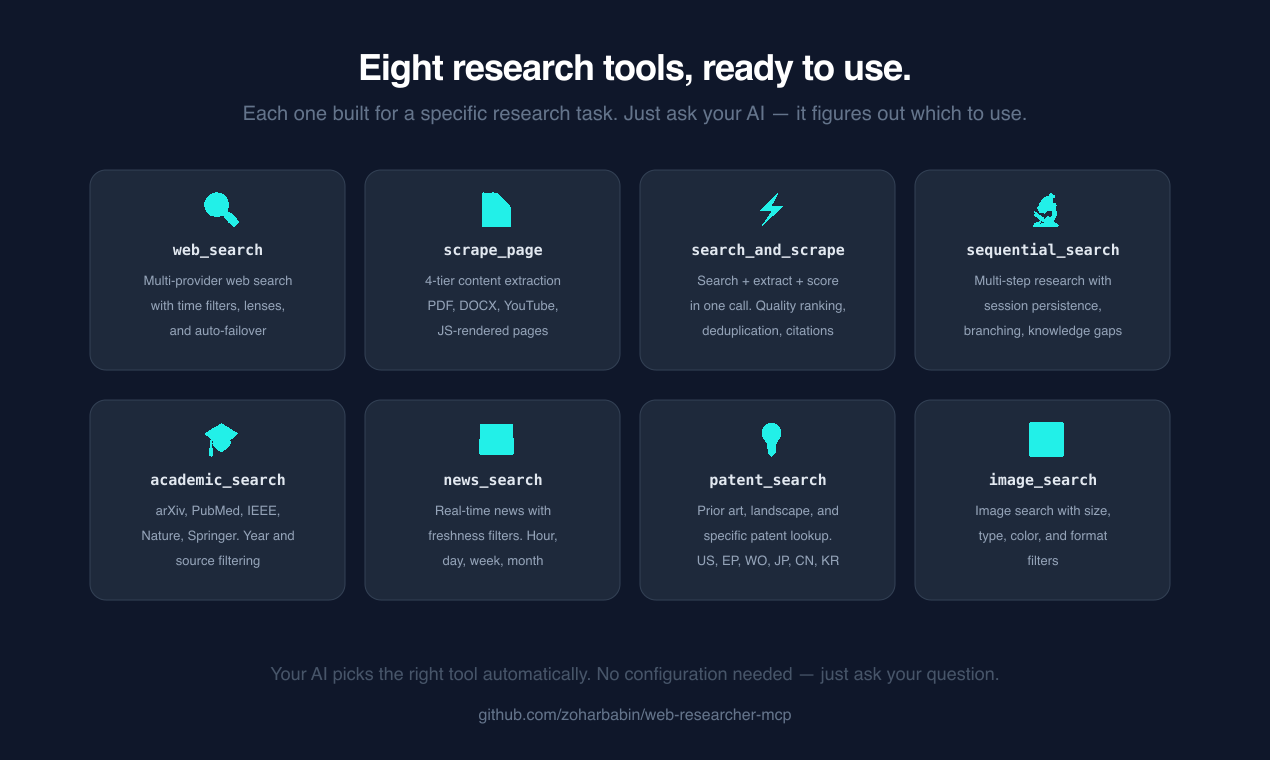
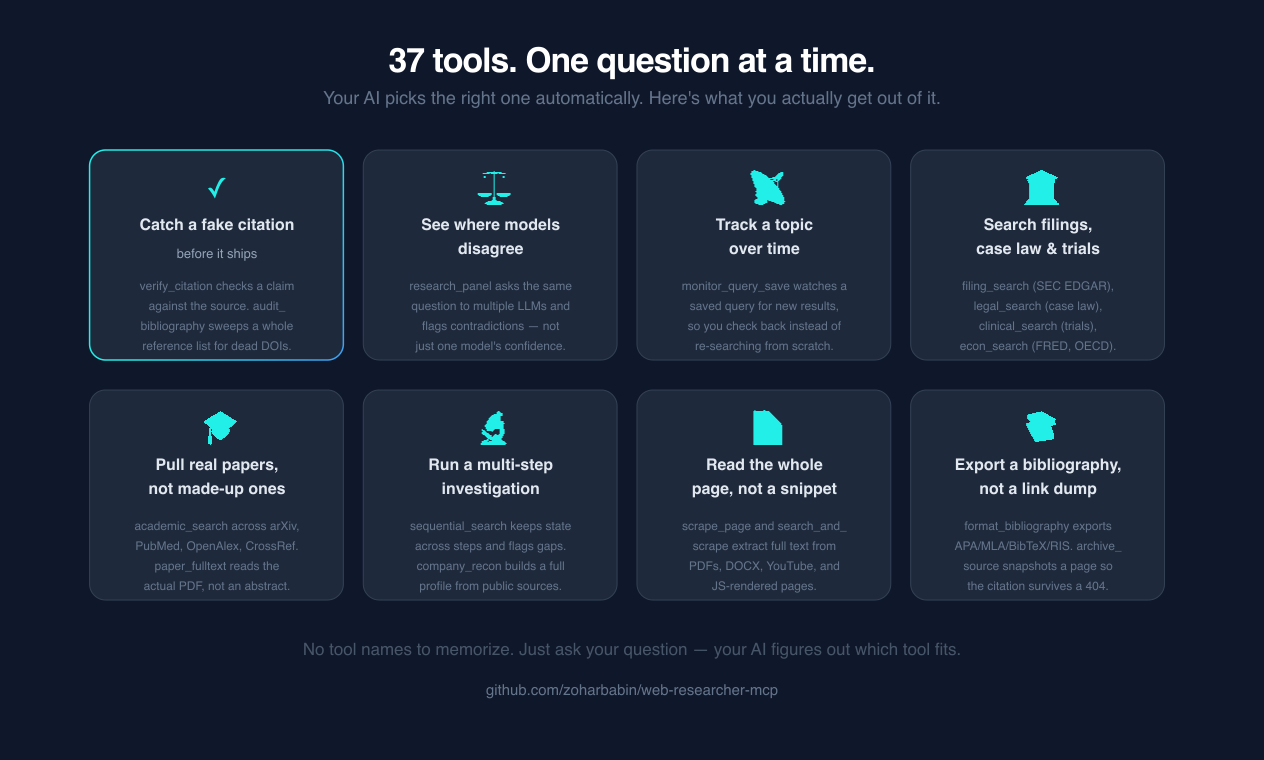
docs: refresh provider and tools graphics to reflect current breadth (#457)
Update the provider-routing graphic (assets/ph-gallery-3-providers) to group 30+ providers by domain (web/academic/legal-econ/curated/lenses/enrichment) instead of listing only the 5 original web-search providers, which undersold current breadth. Rework the tools graphic (assets/ph-gallery-4-tools) from an 8-tool inventory into an outcome-oriented grid (catch fake citations, cross-check models, track topics, search filings) that stays accurate as tools are added, and embed it in the README next to the full tool table since it wasn't linked anywhere before.

diff --git a/README.md b/README.md
@@ -155,6 +155,8 @@ Works with Claude, Claude Desktop, Cursor, and any AI assistant that supports to
 
 ## What your AI can do with this
 
+![37 tools organized by outcome — catch fake citations, cross-check models, track topics over time, search filings and case law](assets/ph-gallery-4-tools.png)
+
 | Tool | What it does |
 |------|-------------|
 | `web_search` | Search the web — optionally restricted to only the sources you trust via lenses |
